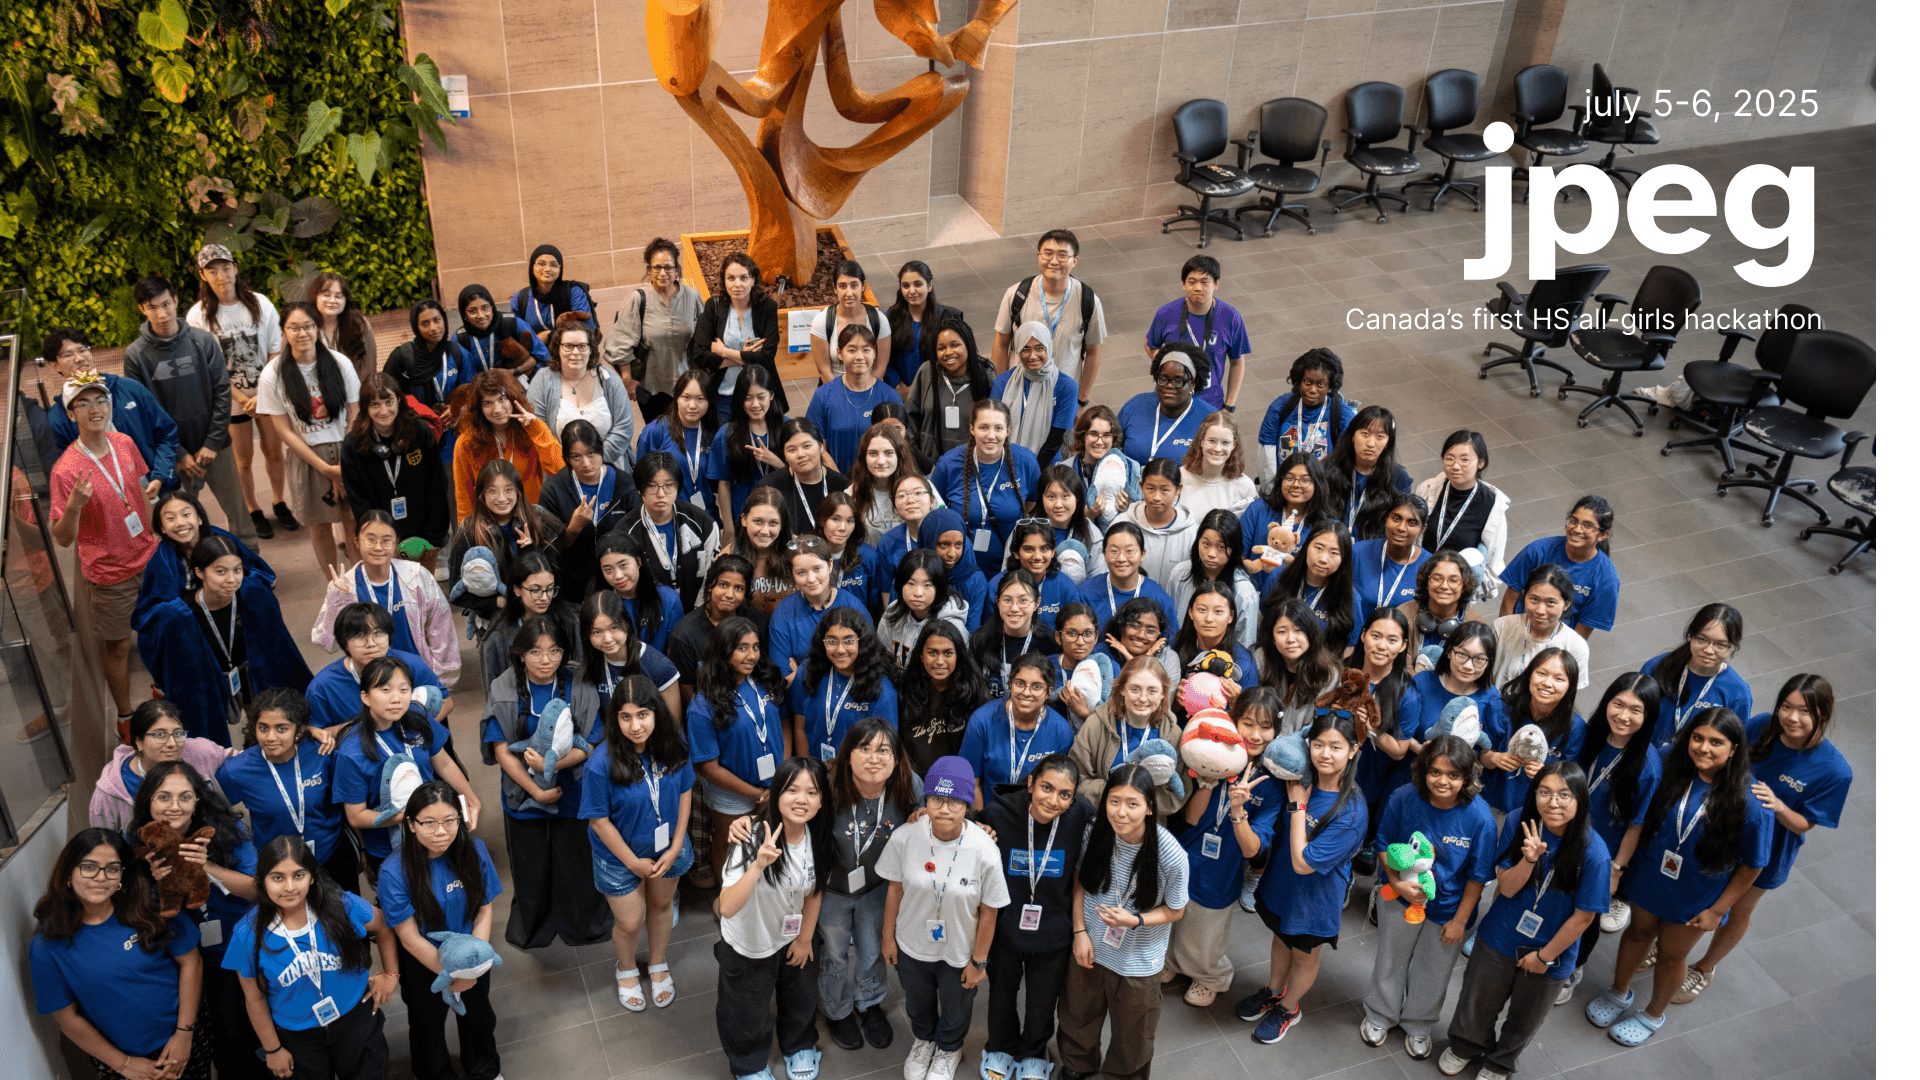
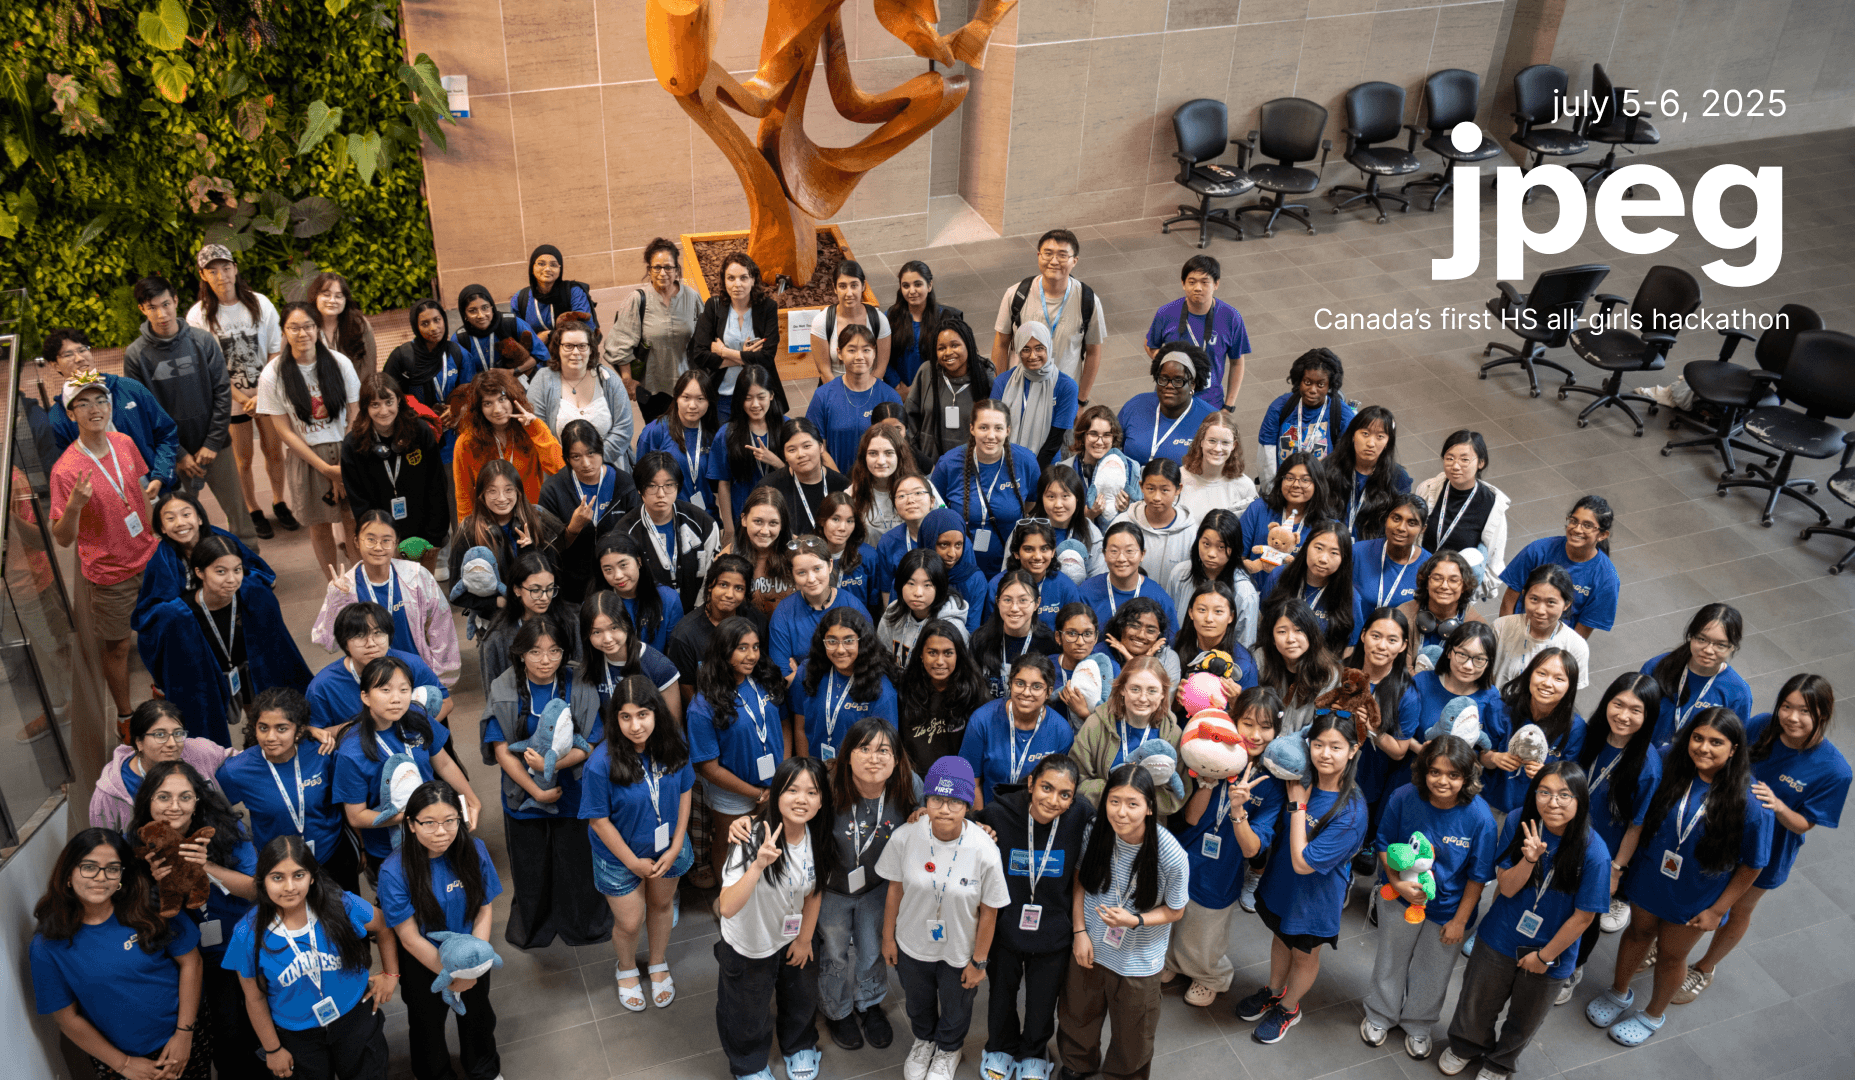
ummm some target changes and animation

diff --git a/index.html b/index.html
@@ -65,23 +65,31 @@
           <div class="subtitle">I'm a</div>
           <div class="h1">Canadian student</div>
           <div class="body">Queen's Commerce '30</div>
-          <a class="hyperlink" href="academics.html"> click to read more </a>
+          <a class="hyperlink" href="academics.html" target="blank">
+            click to read more
+          </a>
         </div>
         <div class="section-image">
-          <img class="window1" src="img/happy.png" alt="window 01" />
+          <img class="rounded window1" src="img/happy.png" alt="window 01" />
           <span class="hoverbox-image"> click me!</span>
         </div>
       </div>
 
       <div class="section">
         <div class="section-image">
-          <img class="window3" src="img/hack 003.png" alt="jpeg photo" />
+          <img
+            class="rounded window3"
+            src="img/hack 003.png"
+            alt="jpeg photo"
+          />
           <span class="hoverbox-image"> click me!</span>
         </div>
         <div class="section-text">
-          <div class="h1">events organizer</div>
+          <div class="h1">event organizer</div>
           <div class="body">Running hackathons worldwide!</div>
-          <a class="hyperlink" href="events.html">click to read more</a>
+          <a class="hyperlink" href="events.html" target="blank"
+            >click to read more</a
+          >
         </div>
       </div>
 
@@ -89,7 +97,7 @@
         <div class="section-text">
           <div class="h1">artist / merch designer</div>
           <div class="body">Merch, Web UI, & Misc.</div>
-          <a class="hyperlink" href="portfolio.html">
+          <a class="hyperlink" href="portfolio.html" target="blank">
             check out my portfolio!</a
           >
         </div>
@@ -105,15 +113,16 @@
       </div>
       <div class="section">
         <div class="column">
-          <img class="obsessions" src="img/anime 01.jpg" alt="jjk" />
-          <div class="body">all-time favorites</div>
+          <img class="rounded obsessions" src="img/anime 01.jpg" alt="jjk" />
+          <div class="body">favorite watches</div>
         </div>
         <div class="column">
-          <img class="reads" src="img/book 01.jpeg" alt="random 02" />
-          <div class="body">my current reads</div>
+          <img class="rounded reads" src="img/book 02.jpg" alt="book 02" />
+          <div class="body">recent reads</div>
         </div>
         <div class="column">
-          <img class="hobbies" src="img/random3.png" alt="random 03" />
+          <img class="rounded music" src="img/music 001.jpeg" alt="random 03" />
+          <div class="body">current listens!</div>
         </div>
       </div>
 
@@ -122,15 +131,24 @@
       </div>
       <div class="section">
         <div class="column">
-          <img src="img/random.jpg" alt="singapore!" />
+          <img
+            class="rounded friends"
+            src="img/friends 02.png"
+            alt="singapore!"
+          />
           <div class="body">friends!</div>
         </div>
         <div class="column">
-          <img src="img/random2.png" alt="busan, seoul, & hokkaido" />
+          <img
+            class="rounded summer"
+            style="min-width: 4em"
+            src="img/summer 008.png"
+            alt="busan, seoul, hokkaido, tokyo, osaka, singapore"
+          />
           <div class="body">this summer!</div>
         </div>
         <div class="column">
-          <img src="img/random3.png" alt="random 03" />
+          <img class="rounded food" src="img/food 01.png" alt="yum food" />
           <div class="body">food</div>
         </div>
       </div>
@@ -156,13 +174,10 @@
         const images1 = [
           "img/happy.png",
           "img/student 01.png",
-          "img/student 02.png",
           "img/student 03.png",
           "img/student 04.png",
           "img/student 05.png",
           "img/student 06.png",
-          "img/student 07.png",
-          "img/student 08.png",
           "img/student 10.png",
           "img/student 11.png",
         ];
@@ -210,10 +225,17 @@
 
       <script>
         const images4 = [
-          "img/book 01.jpeg",
           "img/book 02.jpg",
+          "img/book 01.jpeg",
           "img/book 03.jpg",
           "img/book 04.jpg",
+          "img/book 06.jpeg",
+          "img/book 07.jpg",
+          "img/book 08.jpg",
+          "img/book 09.jpg",
+          "img/book 10.jpg",
+          "img/book 11.jpg",
+          "img/book 12.jpg",
         ];
         let index4 = 0;
 
@@ -224,7 +246,12 @@
       </script>
 
       <script>
-        const images5 = ["img/anime 01.jpg"];
+        const images5 = [
+          "img/anime 01.jpg",
+          "img/anime 02.jpg",
+          "img/anime 03.jpg",
+          "img/movie 01.jpeg",
+        ];
         let index5 = 0;
 
         document.querySelector(".obsessions").addEventListener("click", () => {
@@ -234,12 +261,73 @@
       </script>
 
       <script>
-        const images6 = ["img/anime 01.jpg"];
+        const images6 = [
+          "img/music 001.jpeg",
+          "img/music 002.jpg",
+          "img/music 003.jpeg",
+        ];
         let index6 = 0;
 
-        document.querySelector(".hobbies").addEventListener("click", () => {
+        document.querySelector(".music").addEventListener("click", () => {
           index6 = (index6 + 1) % images6.length;
-          document.querySelector(".hobbies").src = images6[index6];
+          document.querySelector(".music").src = images6[index6];
+        });
+      </script>
+
+      <script>
+        const images7 = [
+          "img/summer 003.png",
+          "img/summer 002.png",
+          "img/summer 004.png",
+          "img/summer 005.png",
+          "img/summer 006.png",
+          "img/summer 007.png",
+          "img/summer 008.png",
+          "img/summer 009.png",
+          "img/summer 010.png",
+        ];
+        let index7 = 0;
+
+        document.querySelector(".summer").addEventListener("click", () => {
+          index7 = (index7 + 1) % images7.length;
+          document.querySelector(".summer").src = images7[index7];
+        });
+      </script>
+
+      <script>
+        const images8 = [
+          "img/food 01.png",
+          "img/food 02.png",
+          "img/food 04.png",
+          "img/food 05.png",
+          "img/food 06.png",
+          "img/food 07.png",
+          "img/food 08.png",
+          "img/food 04.png",
+        ];
+        let index8 = 0;
+
+        document.querySelector(".food").addEventListener("click", () => {
+          index8 = (index8 + 1) % images8.length;
+          document.querySelector(".food").src = images8[index8];
+        });
+      </script>
+
+      <script>
+        const images9 = [
+          "img/friends 02.png",
+          "img/friends 01.png",
+          "img/friends 04.png",
+          "img/friends 05.png",
+          "img/friends 06.png",
+          "img/friends 07.png",
+          "img/friends 08.png",
+        ];
+        let index9 = 0;
+
+        document.querySelector(".friends").addEventListener("click", () => {
+          index9 = (index9 + 1) % images9.length;
+          document.querySelector(".friends").src = images9[index9];
         });
       </script>
     </div>

diff --git a/style.css b/style.css
@@ -92,7 +92,7 @@ html,body{
     font-family:"Verdana",sans-serif;
     font-size:1.1rem; 
     color:#c7f7ff;
-    aligne-self:center;
+    align-content:center;
 }
 
 .hyperlink:hover{
@@ -178,15 +178,6 @@ html,body{
     width:100%;
 }
 
-@keyframes cloud{
-    from{
-        transform translateY(0)
-    }
-    to{
-        transform translateY(-50px);
-    }
-}
-
 .cloud2{
     position:absolute;
     display:flex;
@@ -262,12 +253,13 @@ html,body{
     display:flex;
     flex-direction:column;
     align-items:flex-end;
-    gap:0.5rem;
+    gap:0.2rem;
     padding-top:2rem;
+    padding-left:1rem;
 }
 
 .section-image:hover{
-    transition:transform 0.3s ease;
+    transition:transform 0.2s ease;
     transform:scale(1.1);
 }
 
@@ -304,15 +296,24 @@ gap:1.5em;
     margin-top:2em;
 }
 
+.column-image{
+    border-radius:10px;
+}
+
 .row:after{
     content:"";
     display:table;
     clear:both;
 }
 
-.column-image{
-    width:12em;
-    align-self:center;
+.rounded{
+    border-radius:1.1em;
+}
+
+.rounded:hover{
+    transform:scale(1.05);
+    cursor:pointer;
+    transition:transform 0.1s ease-in-out;
 }
 
 .fourth{
@@ -354,3 +355,15 @@ gap:1.5em;
   100% { opacity: 0; transform: translate(-50%, -50%) scale(0); }
 }
 
+.return-button{
+    border:1px solid #fffde3;
+    padding:0.8rem 2.5rem;
+    corner-radius:1em;
+    display:inline-block;
+    font-size:12px;
+}
+
+.return-button:hover{
+    transform:scale(1.35);
+    transition: 0.2s ease-out;
+}

diff --git a/academics.html b/academics.html
@@ -13,6 +13,11 @@
     />
   </head>
   <body>
-    <div class="landing"></div>
+    <div class="landing">
+      <div class="h1">under construction :/</div>
+      <div style="margin-top: 1.2em" class="return-button">
+        <a href="index.html" style="color: aliceblue"> return </a>
+      </div>
+    </div>
   </body>
 </html>

diff --git a/events.html b/events.html
@@ -13,6 +13,11 @@
     />
   </head>
   <body>
-    <div class="landing"></div>
+    <div class="landing">
+      <div class="h1">under construction :/</div>
+      <div style="margin-top: 1.2em" class="return-button">
+        <a href="index.html" style="color: aliceblue"> return </a>
+      </div>
+    </div>
   </body>
 </html>

diff --git a/portfolio.html b/portfolio.html
@@ -13,6 +13,11 @@
     />
   </head>
   <body>
-    <div class="landing"></div>
+    <div class="landing">
+      <div class="h1">under construction :/</div>
+      <div style="margin-top: 1.2em" class="return-button">
+        <a href="index.html" style="color: aliceblue"> return </a>
+      </div>
+    </div>
   </body>
 </html>
